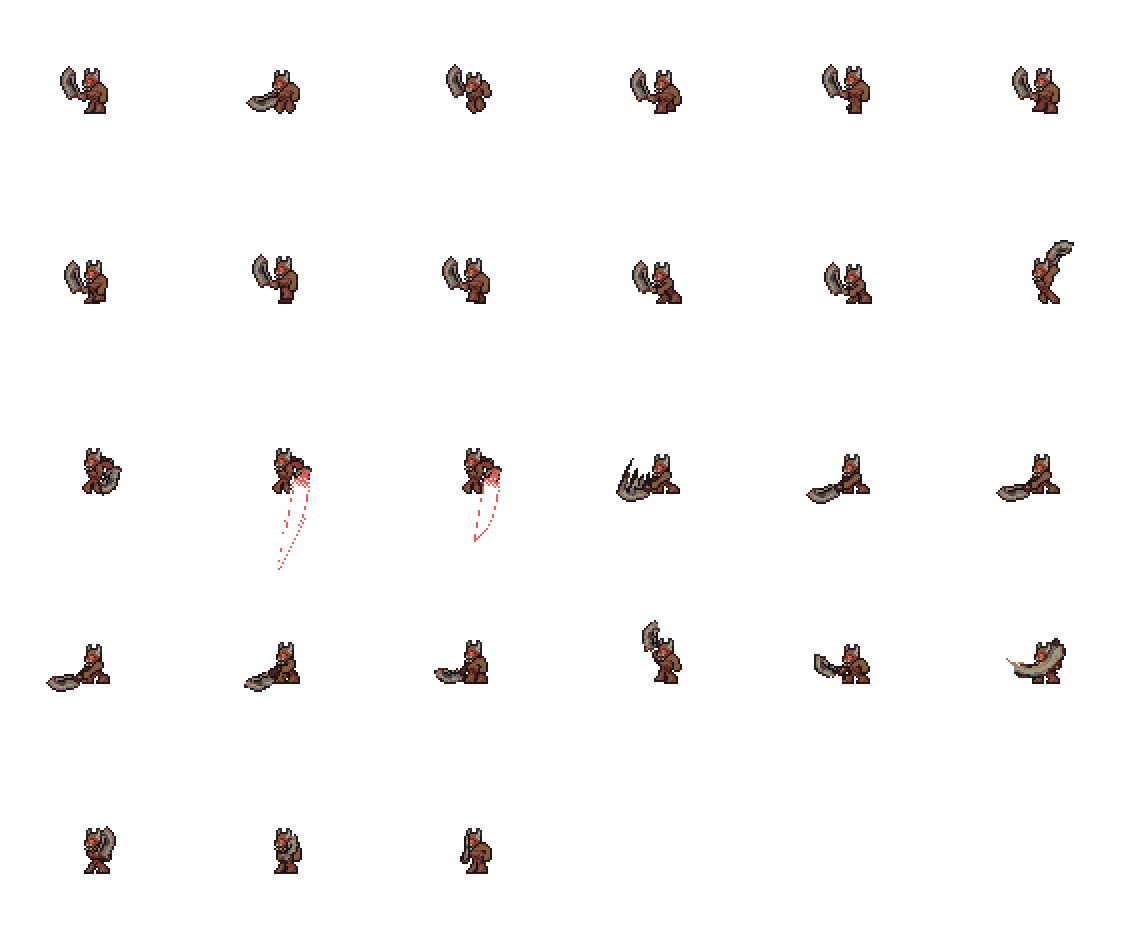
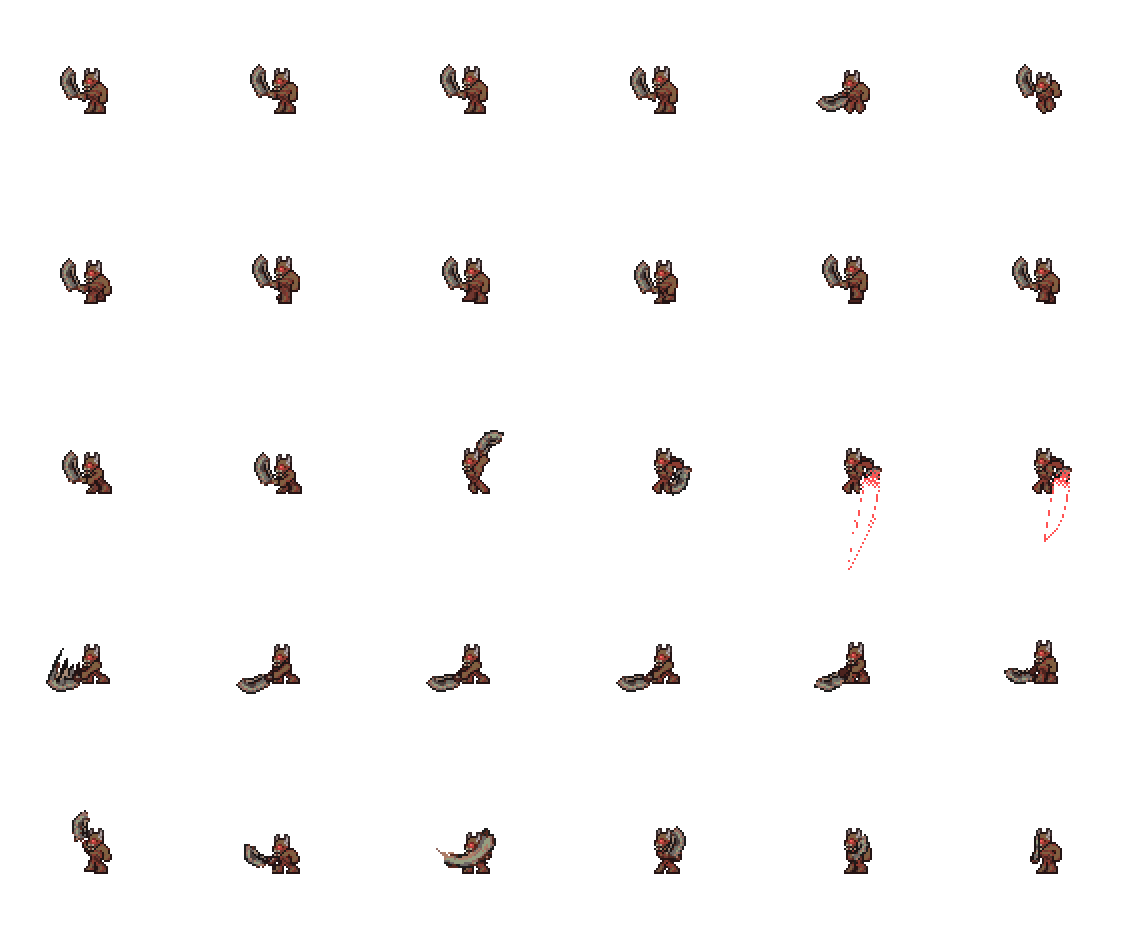
feat: 'Fallen Tyrant' new frames, placeholder projectiles, and glowmask.

diff --git a/Content/Conflux/Fallen.cs b/Content/Conflux/Fallen.cs
@@ -27,14 +27,14 @@ namespace PathOfTerraria.Content.Conflux;
 /// <summary> Heavy low-speed demon that annihilates its targets.  </summary>
 internal sealed class FallenTyrant : Fallen
 {
-	private static readonly SpriteAnimation animIdle = new() { Id = "idle", Frames = [0], Speed = 2f };
-	private static readonly SpriteAnimation animJump = new() { Id = "jump", Frames = [1] };
-	private static readonly SpriteAnimation animFall = new() { Id = "fall", Frames = [2] };
-	private static readonly SpriteAnimation animWalk = new() { Id = "walk", Frames = [3, 4, 5, 6, 7, 8], Speed = 4f };
-	private static SpriteAnimation animAttack => new()
+	private static readonly SpriteAnimation animIdle = new() { Id = "idle", Frames = [0, 1, 2, 3], Speed = 3f };
+	private static readonly SpriteAnimation animJump = new() { Id = "jump", Frames = [4] };
+	private static readonly SpriteAnimation animFall = new() { Id = "fall", Frames = [5] };
+	private static readonly SpriteAnimation animWalk = new() { Id = "walk", Frames = [6, 7, 8, 9, 10, 11], Speed = 4f };
+	private static readonly SpriteAnimation animAttack = new()
 	{
 		Id = "attack",
-		Frames = [20, 20, 21, 21, 21, 21, 22, 23, 24, 25, 25, 25, 26],
+		Frames = [23, 23, 24, 24, 24, 24, 25, 26, 27, 28, 28, 28, 29],
 		Speed = 20f,
 		Loop = false,
 	};
@@ -58,8 +58,26 @@ internal sealed class FallenTyrant : Fallen
 
 		Behavior.MaxSpeed = 1.5f;
 		Behavior.SpriteOffset = new(0f, 1f);
+		Behavior.AttackDashVelocity = new(3f, 0f);
+		Behavior.AttackInitiationRange = new Vector2(512f, 384f);
 
-		NPC.GetGlobalNPC<NPCAnimations>().BaseFrame = new(6, 5);
+		NPC.GetGlobalNPC<NPCAnimations>().BaseFrame = new SpriteFrame(6, 5) with { PaddingX = 0, PaddingY = 0 };
+	}
+
+	protected override Context InnerAI()
+	{
+		Context ctx = base.InnerAI();
+
+		// The tyrant shoots projectiles with its normal attack.
+		if (ActiveAction == ActionType.Attack && ActionProgress == 20)
+		{
+			if (Main.netMode != NetmodeID.MultiplayerClient)
+			{
+				Projectile.NewProjectileDirect(NPC.GetSource_FromThis(), NPC.Center, AttackDirection * 6f, ProjectileID.DemonSickle, (int)(NPC.defDamage * 0.5f), 1f);
+			}
+		}
+
+		return ctx;
 	}
 
 	protected override SpriteAnimation? ChooseWantedAnimation(in Context ctx)
@@ -118,7 +136,7 @@ internal sealed class FallenSavage : Fallen
 		Behavior.MeleeHitbox = (new(40, 40), new(56f, 56f), new(+8f, +2f));
 		Behavior.SpriteOffset = new(0f, -1f);
 
-		NPC.GetGlobalNPC<NPCAnimations>().BaseFrame = new(5, 5);
+		NPC.GetGlobalNPC<NPCAnimations>().BaseFrame = new SpriteFrame(5, 5) with { PaddingX = 0, PaddingY = 0 };
 	}
 
 	protected override SpriteAnimation? ChooseWantedAnimation(in Context ctx)
@@ -440,7 +458,7 @@ internal abstract class Fallen : ModNPC
 		});
 		NPC.TryEnableComponent<NPCAnimations>(e =>
 		{
-			e.BaseFrame = new(1, 6);
+			e.BaseFrame = new SpriteFrame(1, 6) with { PaddingX = 0, PaddingY = 0 };
 		});
 		NPC.TryEnableComponent<NPCTargetTracking>();
 
